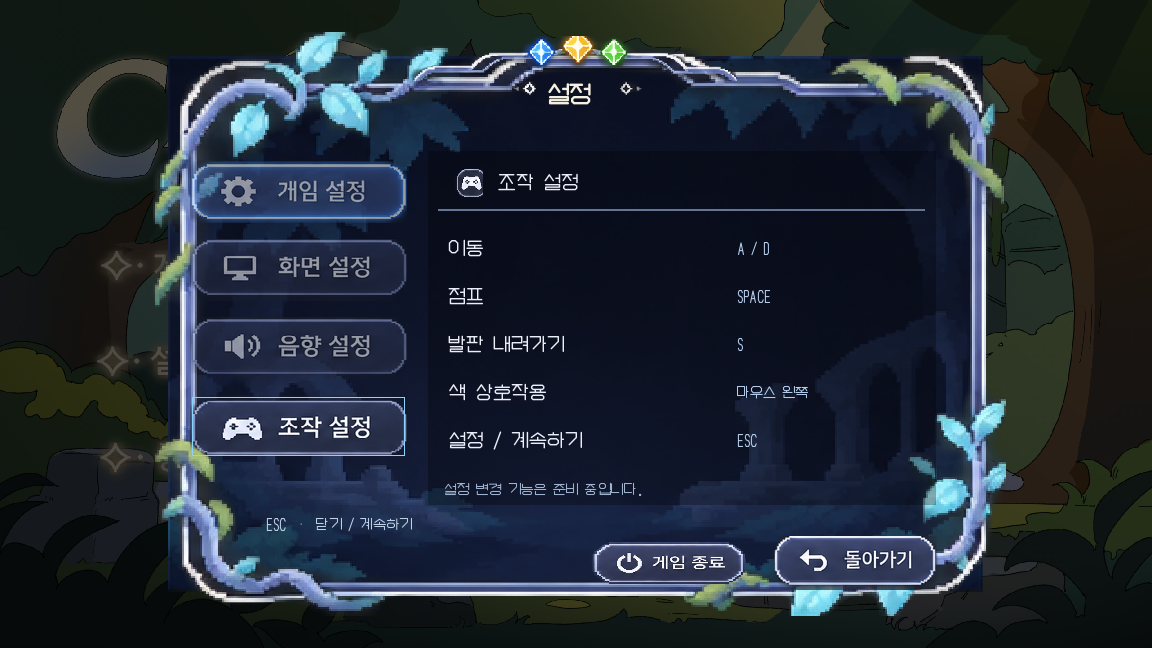
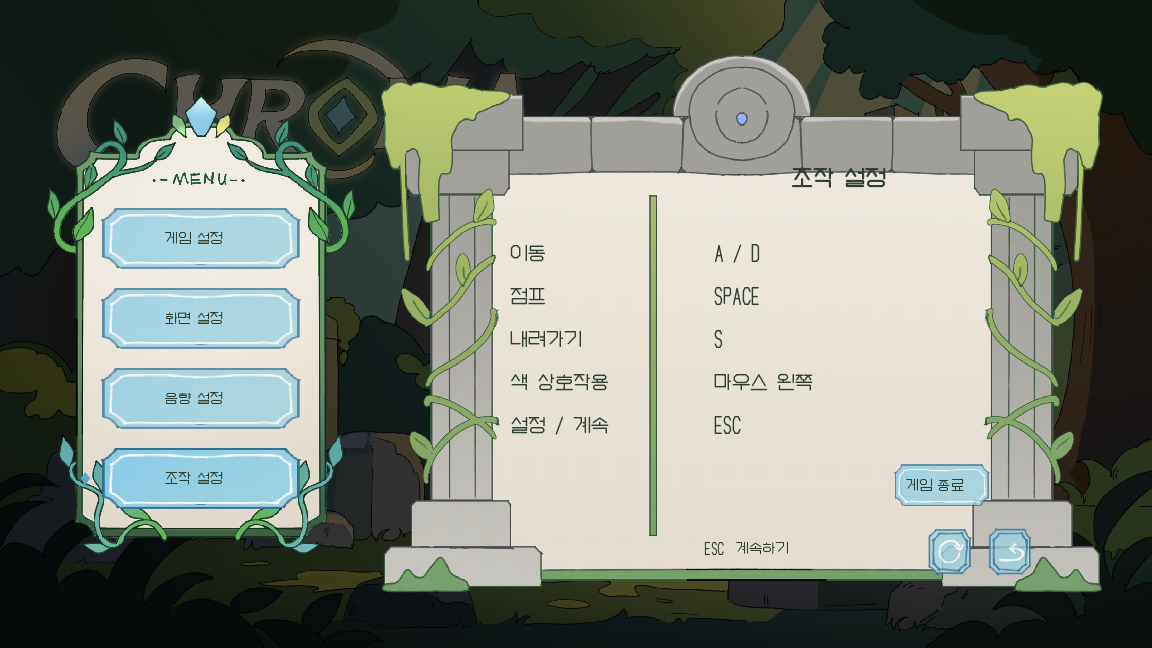
새 타이틀과 설정 화면 프리뷰 및 슬라이더 조작 안내 갱신

diff --git a/tools/preview_settings.py b/tools/preview_settings.py
@@ -1,9 +1,11 @@
-"""Render the kit-based settings modal over title and gameplay scenes."""
+"""Render the current settings design and its working volume sliders."""
 import sys
 from pathlib import Path
 from unittest.mock import patch
+from types import SimpleNamespace as Event
 
 from PIL import Image
+import pico2d
 
 sys.path.insert(0, str(Path(__file__).resolve().parent.parent))
 import tools.preview_levels as renderer
@@ -28,6 +30,20 @@ def main():
             settings.tab = tab
             settings.draw()
             renderer.canvas.save(ROOT / f'previews/settings_title_{tab}.png')
+        settings.tab = 2
+        settings.handle_event(Event(type=pico2d.SDL_MOUSEBUTTONDOWN,
+                                    button=1, x=714, y=648-370))
+        frames = []
+        for value in list(range(0, 101, 5)) + list(range(95, -1, -5)):
+            x = settings.SLIDER_LEFT + (settings.SLIDER_RIGHT-settings.SLIDER_LEFT) * value/100
+            settings.handle_event(Event(type=pico2d.SDL_MOUSEMOTION, x=x, y=648-370))
+            renderer.canvas = Image.new('RGB', (1152, 648))
+            title.draw()
+            settings.draw()
+            frames.append(renderer.canvas.copy())
+        settings.handle_event(Event(type=pico2d.SDL_MOUSEBUTTONUP, button=1, x=714, y=648-370))
+        frames[0].save(ROOT / 'previews/settings_slider.gif', save_all=True,
+                       append_images=frames[1:], duration=70, loop=0)
         level = TutorialLevel()
         background, player = TempleBackground(level), Player(level)
         player.enter_level(level)

diff --git a/README.md b/README.md
@@ -26,6 +26,15 @@
 머리 위에 A/D → SPACE 안내가 표시되고, 얇은 발판 위에서는 S 안내가 표시됩니다.
 이동·점프·내려가기를 실제로 수행하면 해당 안내가 사라집니다.
 
+## 설정 화면
+
+새 `image/ui/ui.png`의 채색된 메뉴판·돌기둥 프레임·파란 버튼으로 설정 화면을 구성합니다.
+왼쪽에서 설정 종류를 고르고, 오른쪽에서 내용과 조작 안내를 확인합니다.
+음향 설정의 배경음악·효과음 슬라이더는 클릭하거나 드래그하여 각각 0~100%로 조절합니다.
+창을 닫았다 열어도 실행 중 음량 값이 유지되며, 원형 화살표 버튼으로 80%로 초기화합니다.
+현재는 슬라이더와 음량 값까지 구현되어 있고 실제 음악·효과음 재생은 연결하지 않았습니다.
+돌아가기 버튼이나 ESC로 게임을 계속할 수 있습니다.
+
 ## 진행 순서
 
 1. 앞의 파랑 보석을 좌클릭해 파랑을 추출합니다.
@@ -57,6 +66,9 @@
 - 전체 배치: `previews/tutorial_overview.png`
 - 구간별 화면: `tutorial_start.png`, `tutorial_water.png`, `tutorial_green.png`, `tutorial_frozen_water.png`, `tutorial_yellow.png`, `tutorial_exit.png`
 - 낙수의 이동·정지·재개: `previews/tutorial_falling_water.gif`
+- 설정 화면: `python tools/preview_settings.py`
+- 음량 슬라이더 동작: `previews/settings_slider.gif`
+- UI 시트 변경 후 에셋 추출: `python tools/prepare_ui.py`
 
 전체 이동·색 교환·점프 물리를 사용해 시작부터 출구까지 통과하는 테스트를 포함합니다.
 타이틀은 `image/ui/title.png`, 버튼은 `title_button.png`, 로딩은 `loading.webp`를 사용합니다.
